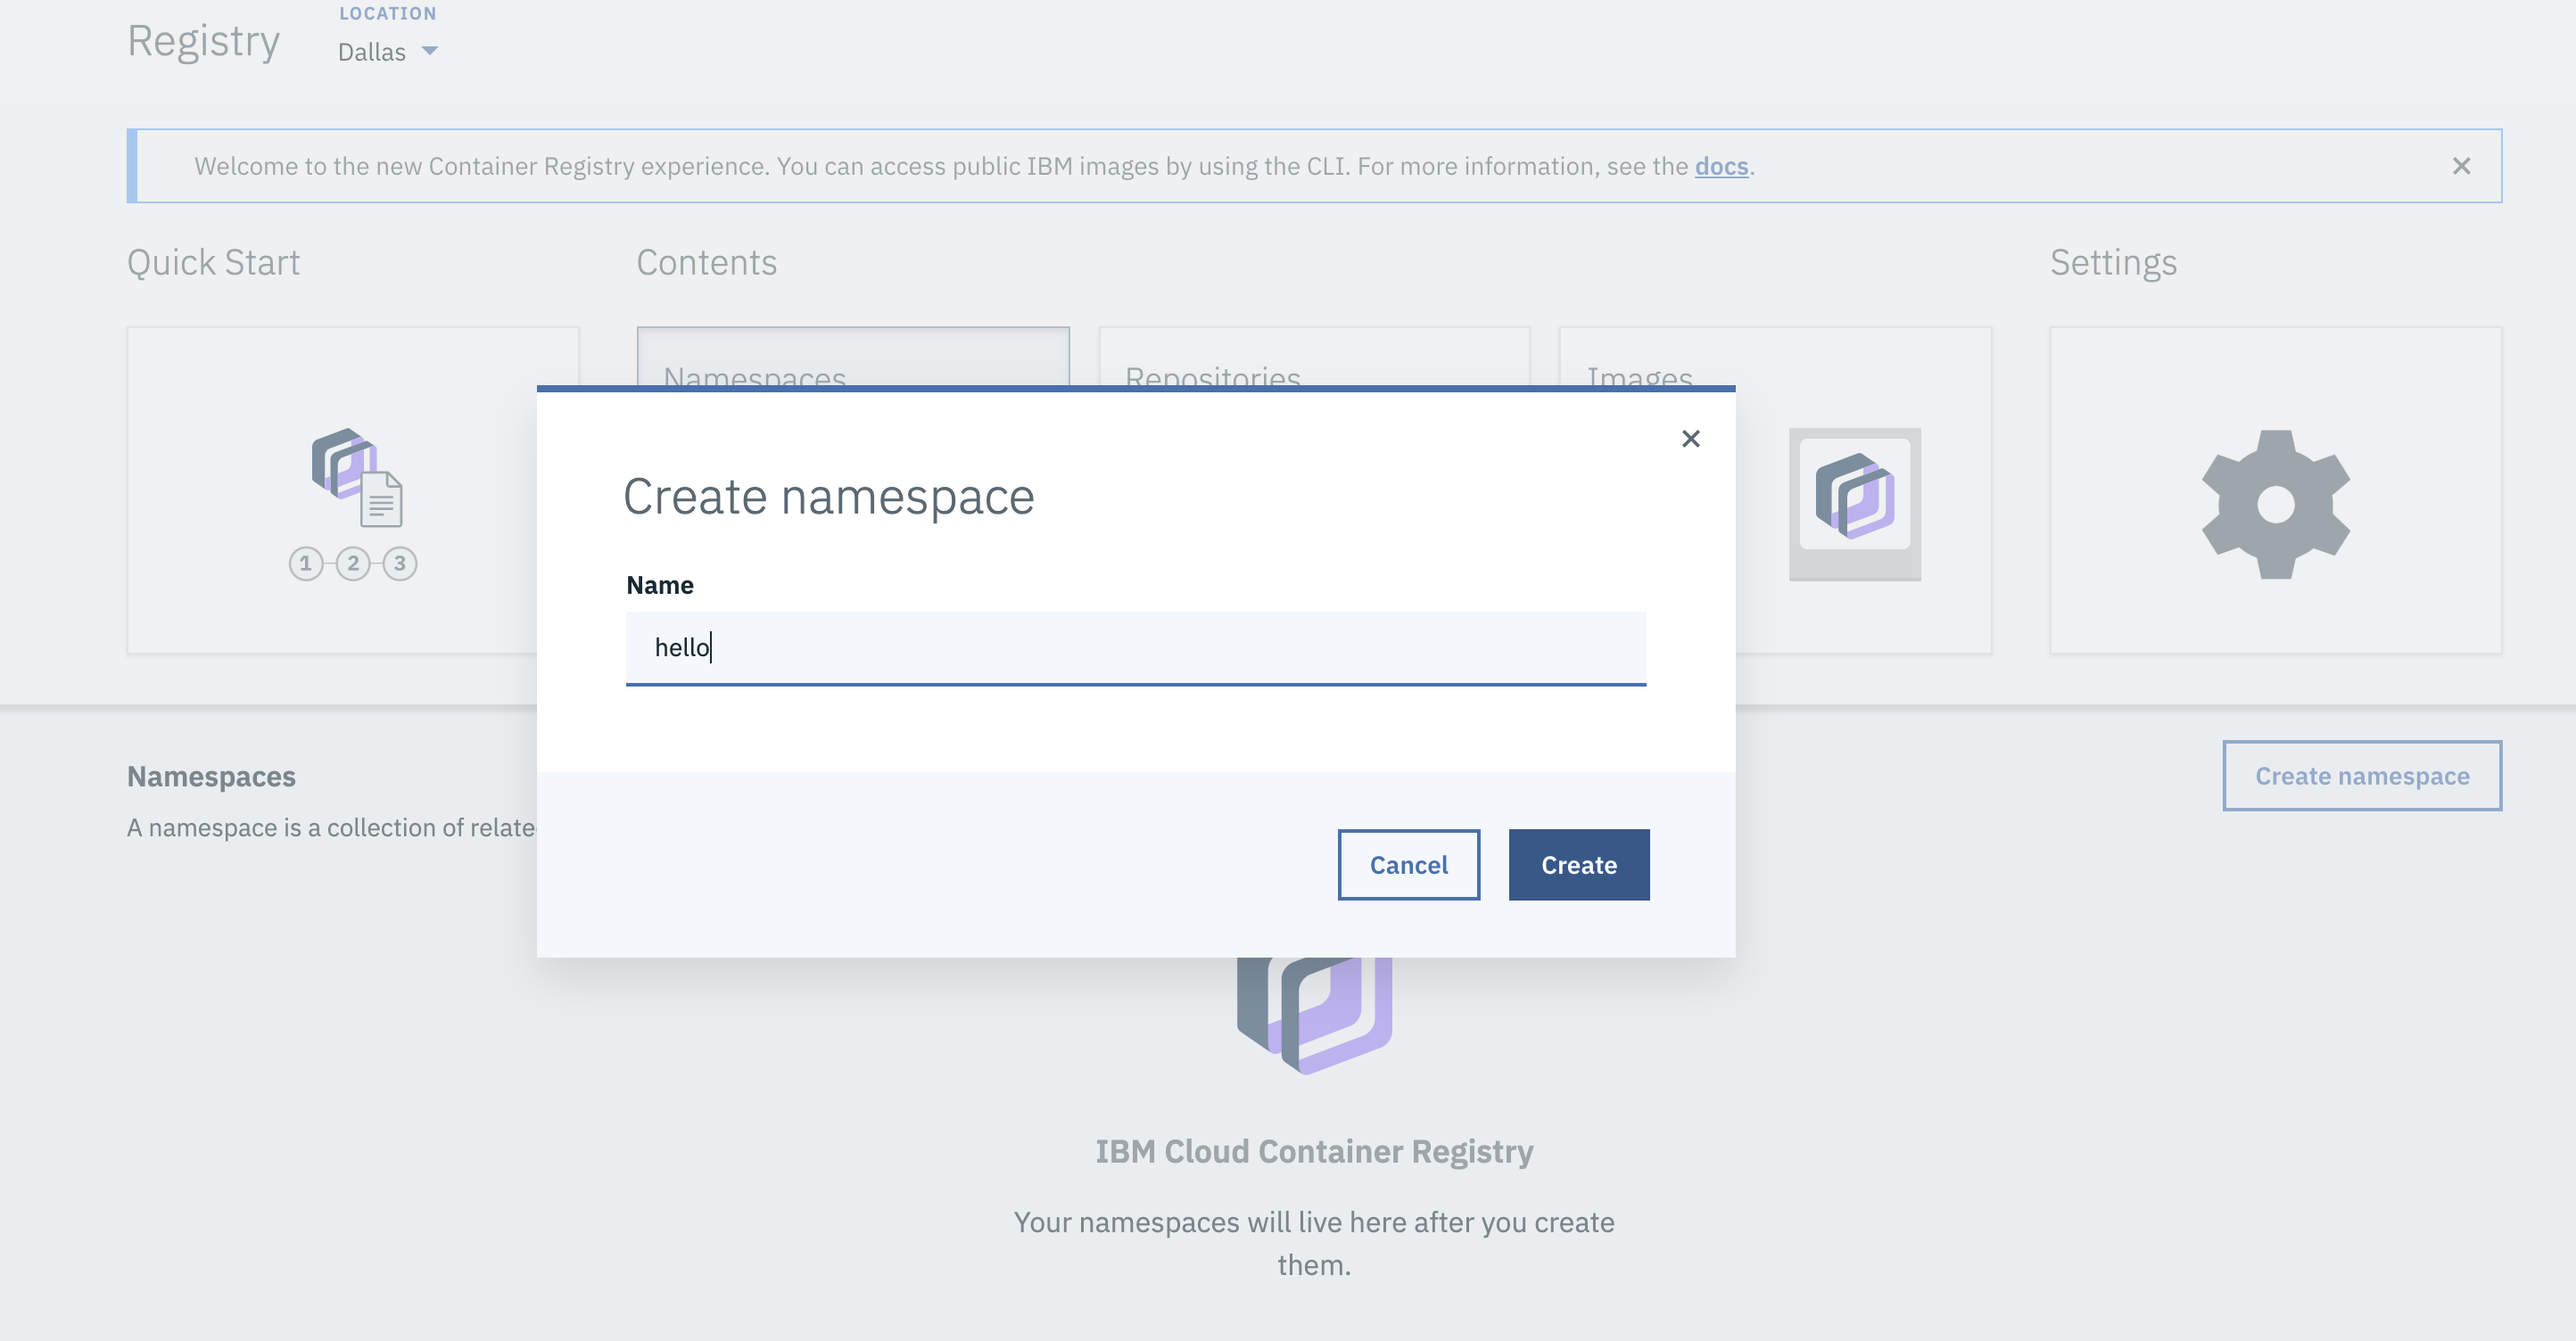
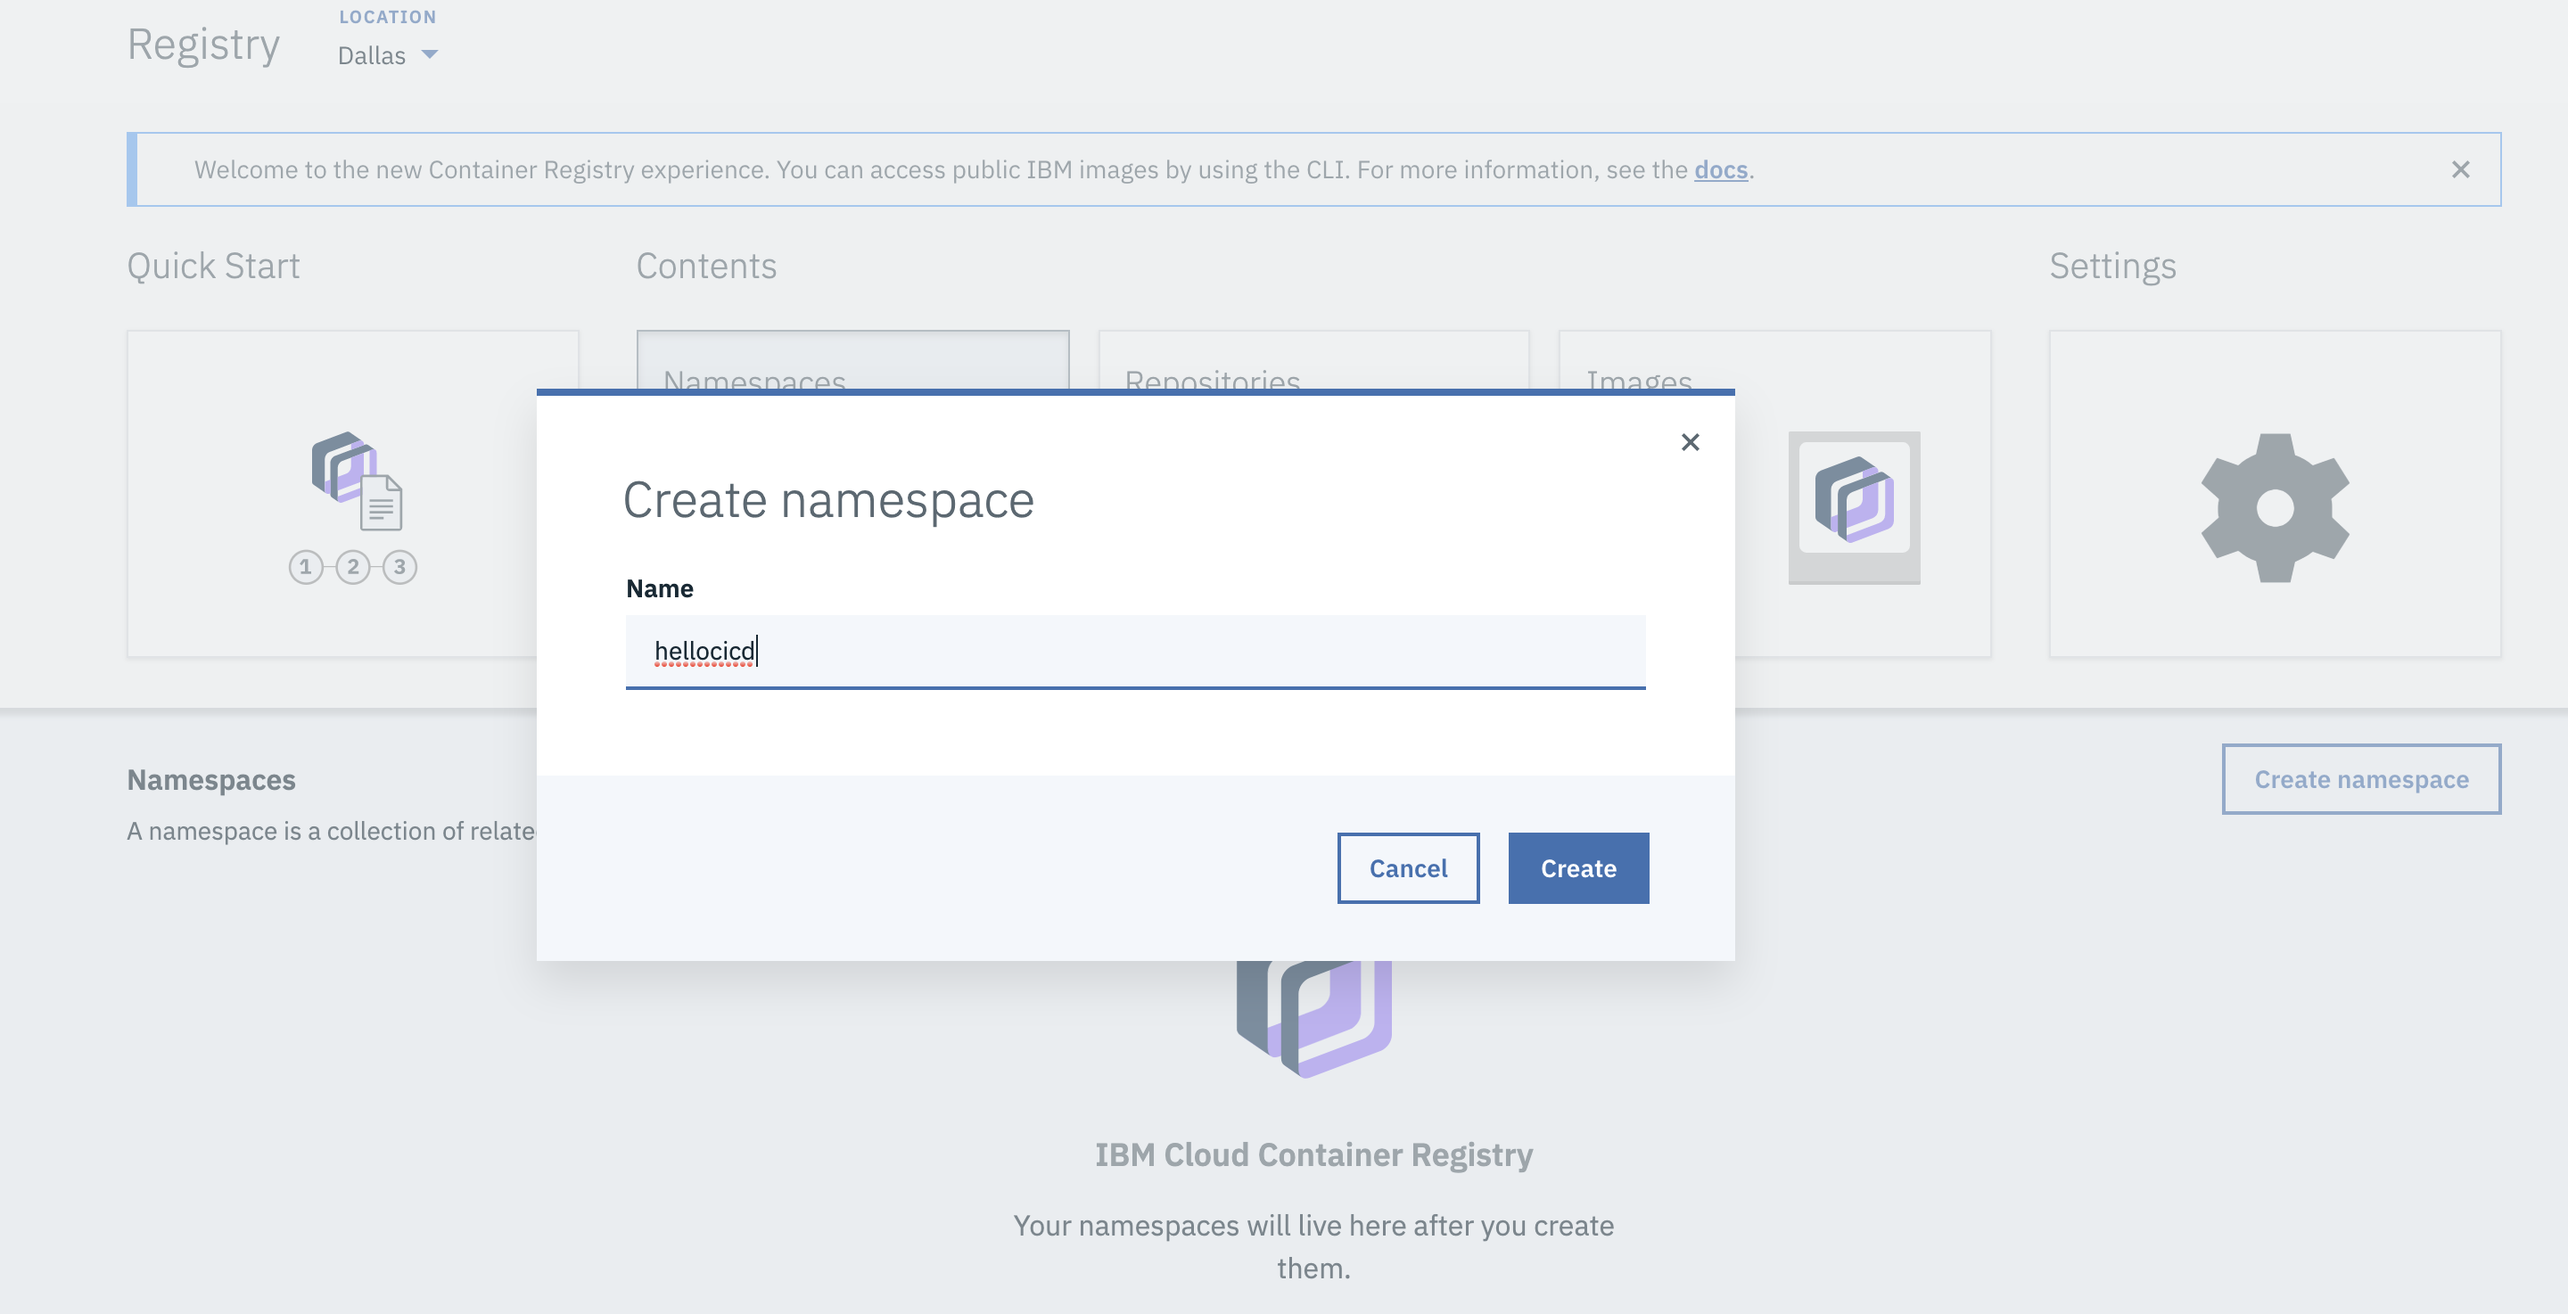
cicd-deploy

diff --git a/README.md b/README.md
@@ -19,8 +19,6 @@ Note: Please check and note the region of your Kubernetes cluster, as we need to
 Note: service creation in the region of your Kubernetes cluster.
 
 
-
-
 ### Setup a Container Registry Service
 
 As a prerequisite we require a Continuous Delivery service on IBM Cloud, to create & run the pipeline
@@ -34,9 +32,50 @@ Note: Please choose the region on top left, same as your Kubernetes cluster.
 
 3. Let us create a `namespace` for our lab today, which will help us to map our git repositories and container images.
 Click on `Namespaces` tab and click on it.
+
 ![CR](img/cr-namespace.png)
-On the lower right, we will have to click on `Create namespace`. for example `hello`
+
+On the lower right, we will have to click on `Create namespace`. for example `hellocicd`
+Note: Very unique name required.
+
 ![CR](img/cr-namespace-create.png)
 
 
-### Setup our Delivery Pipeline using IBM Toolchain Service.
+### Setup our Integration and Delivery Pipeline using IBM Toolchain Service.
+
+We will now setup the Integration & delivery pipeline for our application.
+
+* The pipeline will check for every latest code commit into the repository and compile it.
+* Run the unit tests, build the container image.
+* Push the image to container registry to keep the updated versions of the code
+* Deploy the image to Kubernetes cluster.
+
+
+1. Go to your [kubernetes cluster](https://cloud.ibm.com/kubernetes/clusters) and select your cluster name. for example: `mycluster` here
+After this click on `DevOps` tab, to setup the pipeline.
+ ![kube-devops](img/kube-devops.png)
+
+2. For our lab, we will build & deploy `Develop a Kubernetes App`
+ ![kube-app](img/kube-app.png)
+
+3. We have to get our delivery pipeline ready. This service will help us to create our code's git repo, Eclipse IDE for code changes also.
+ ![create-app](img/create-app.png)
+
+- Select `Delivery Pipeline`. Create `IBM Cloud API Key` -> `Create` -> `Create`
+  This will auto-generate a unique API key.
+- Enter the `Container registry namespace` - `hellocicd`, which we created earlier.
+- Enter the `cluster namespace` - `hellocicd`. A default namespace will be created, if not provided.
+- Click on `Create` to create the toolchain.
+
+4. IBM toolchain creates a github repository, issue tracking, Eclipse Web IDE, and Delivery pipeline
+![toolchain-ready](img/toolchain-ready.png)
+  - Click on Delivery Pipeline to view the stages `BUILD`, `CONTAINERISE`, `DEPLOY`
+  - Once all the stages are complete.
+  On the **DEPLOY** stage, click **View logs and history**. The DEPLOY stage deploys the app into the Kubernetes cluster. Select the “Deploy to Kubernetes” job, and scroll to the bottom of the log file to find the link to IP:PORT.
+  ![kube-deploy-complete](img/kube-deploy-complete.png)
+  ![kube-deploy-log](img/kube-deploy-log.png)
+
+  - Browse to IP:PORT to see the running application
+  ![kube-running](img/secure-kube-running.png)
+
+Note: We can find all our existing [Toolchains here](https://cloud.ibm.com/devops/toolchains)
